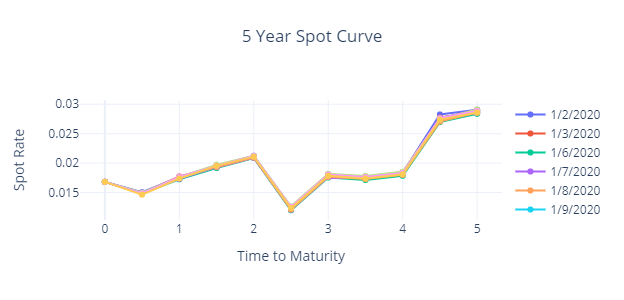
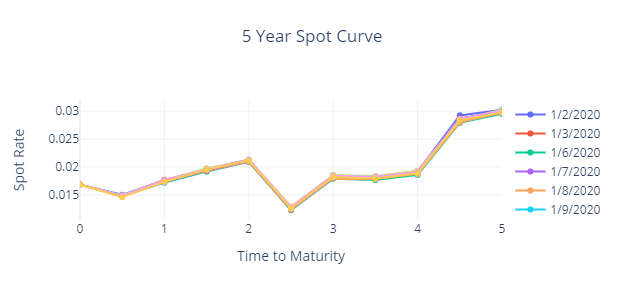
Created forward curve

diff --git a/Analysis.py b/Analysis.py
@@ -85,8 +85,6 @@ fig = go.Figure()
 
 for date in dateRange:
     bonds = yieldBonds[yieldBonds.date == date].reset_index(drop = True)
-    #x_maturity = bonds['maturity']
-    #x_maturity = [datetime.strptime(str(i),'%y%m%d') for i in x_maturity]
     x = range(0,11)
     x = [i/2 for i in x]
 
@@ -117,6 +115,7 @@ for date in dateRange:
                yaxis_title = 'Yield Rate',
                template = 'plotly_white'
                )
+    fig.update_xaxes(dtick =1, rangemode = 'tozero', range = [0,5])
     
 
 fig.show()
@@ -139,7 +138,7 @@ for date in dateRange:
     firstSpot = yieldRate[0]
     firstCoupon = 1000 * bonds.loc[1,'couponRate']/100
     spotRate.append(firstSpot)
-    runningSum = firstCoupon / (1+(1/12)*spotRate[0])
+    runningSum = firstCoupon * np.exp(-spotRate[0]*(1/2))
     
     for i in range(1,len(bonds)-1):
         couponRate = bonds.loc[i+1,'couponRate']/100
@@ -148,7 +147,7 @@ for date in dateRange:
         timeToMaturity = 1/2
         newSpot = (((notional/(marketPrice - runningSum))**(1/(i+1)))-1)/timeToMaturity
         spotRate.append(newSpot)
-        runningSum += notional * couponRate / (1+timeToMaturity*spotRate[i])**i
+        runningSum += notional * couponRate * np.exp(-spotRate[i]*timeToMaturity)
      
     fig2.add_trace(go.Scatter(x=x, y=spotRate,
                     mode='lines + markers',
@@ -164,10 +163,11 @@ for date in dateRange:
                yaxis_title = 'Spot Rate',
                template = 'plotly_white'
                )
+    fig2.update_xaxes(dtick =1, rangemode = 'tozero', range = [0,5])
+
 
 fig2.show()
 fig2.write_image("5 Year Spot Curve.png", width = 624, height = 300)
-
 # =============================================================================
 # calculate the forward rate for each matury date and plot it
 # =============================================================================
@@ -178,32 +178,50 @@ fig3 = go.Figure()
 for date in dateRange:
     
     bonds = yieldBonds[yieldBonds.date == date].reset_index(drop = True)
-#    x_maturity = bonds['maturity']
-#    x_maturity = [datetime.strptime(str(i),'%y%m%d') for i in x_maturity]
-    x = range(0,11)
+    x = range(2,11)
     x = [i/2 for i in x]
+
+    # calculate the yield rates
+    yieldRate = []
+    
+    runningSum = 0
+   
+    for i in range(0,len(bonds)-1):
+        couponRate = bonds.loc[i+1,'couponRate']/100
+        notional = 1000
+        marketPrice = bonds.loc[i,'pClose']/100 * notional
+        timeToMaturity = (1+(6*i))/12
+        newYield = -np.log((marketPrice - runningSum)/notional)/timeToMaturity
+        yieldRate.append(newYield)
+        runningSum += notional * couponRate * np.exp(-yieldRate[i]*timeToMaturity)
+    
     fwdRate = []
         
-    for i in range(0,len(bonds)-2):
-        spot1 = spotRate[i]
-        spot2 = spotRate[i+1]
-        newFwd = (1+spot2)**(i+1)/(1+spot1)**(i)-1
+    for i in range(2,len(yieldRate)-2):
+        y1 = yieldRate[i]
+        y2 = yieldRate[i+2]
+        t1 = (1+(6*i))/2
+        t2 = (1+(6*(i+2)))/2
+        newFwd = ((y2*t2)-(y1*t1))/(t2-t1)
         fwdRate.append(newFwd)
      
-    fig3.add_trace(go.Scatter(x=x, y=spotRate,
+    fig3.add_trace(go.Scatter(x=x, y=fwdRate,
                     mode='lines + markers',
                     name=date))
     
     fig3.update_layout(title = {
-            'text':"5 Year Forward Curve",
+            'text':"One Year Forward Curve",
             'y':0.9,
             'x':0.5,
             'xanchor':'center',
             'yanchor':'top'},
                xaxis_title = 'Time to Maturity',
-               yaxis_title = 'Spot Rate',
+               yaxis_title = 'Forward Rate',
                template = 'plotly_white'
                )
+    fig3.update_xaxes(dtick =1, rangemode = 'tozero', range = [0,5])
 
 fig3.show()
-#fig3.write_image("5 Year Spot Curve.png", width = 624, height = 300)
+fig3.write_image("5 Year Forward Curve.png", width = 624, height = 300)
+
+
